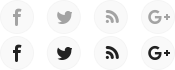
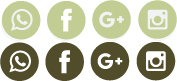
Tipografía, y ajustes varios

diff --git a/css/theme-styles.css b/css/theme-styles.css
@@ -51,6 +51,13 @@
   font-style: normal; 
 }  
 
+@font-face {
+  font-family: 'CretaBold';
+  src: url("../fonts/NexaBold/NexaBold.otf");
+  font-weight: normal;
+  font-style: normal; 
+}  
+
 
 body.custom_theme { overflow-x: hidden; }
 
@@ -147,7 +154,7 @@ ul.product_list.grid > li .product-container .content_price {
 
 
 ul.product_list.grid > li .product-container h5 a {
-	font-family: 'GothamProMedium';
+	font-family: 'CretaBold';
 	font-size: 26px;
 	color: #040406;
 	line-height: 36px;
@@ -246,7 +253,7 @@ body.custom_theme #header #social_block h4 {display: none;}
 
 body.custom_theme #header #social_block ul li a:before {
     content: "";
-    width: 34px; height: 34px;
+    width: 42px; height: 42px;
     display: inline-block;
     background-image: url(../img/head_socials.png);
     background-repeat: no-repeat;
@@ -256,10 +263,10 @@ body.custom_theme #header #social_block ul li {display: inline-block; margin-lef
 body.custom_theme #header #social_block ul li a span {display: none;}
 
 body.custom_theme #header #social_block ul li.facebook a:before {
-    background-position: 0px 0px;
+    background-position: -47px 0px;
 }
 body.custom_theme #header #social_block ul li.facebook a:hover:before {
-    background-position: 0px -36px;
+    background-position: -45px -41px;
 }
 body.custom_theme #header #social_block ul li.twitter a:before {
     background-position: -47px 0px;
@@ -278,6 +285,12 @@ body.custom_theme #header #social_block ul li.google-plus a:before {
 }
 body.custom_theme #header #social_block ul li.google-plus a:hover:before {
     background-position: -141px -36px;
+}
+body.custom_theme #header #social_block ul li.instagram a:before {
+    background-position: -138px 0px;
+}
+body.custom_theme #header #social_block ul li.instagram a:hover:before {
+    background-position: -135px -40px;
 }
 
 .news_letter_popup {
@@ -600,7 +613,7 @@ textarea:active:focus {outline: none !important;}
 	color: #fff;
 	padding: 10px 14px 10px 14px;
 	font-weight: normal;
-	background: #514C29;
+	background: #C2CD93;
 	border: none;
 	border-radius: 20px;
 	margin-bottom: 10px;
@@ -637,7 +650,7 @@ textarea:active:focus {outline: none !important;}
 	}
 }
 .button.button-medium:hover {
-	background: #C2CD93;
+	background: #514C29;
 	border: none;
 }
 
@@ -647,7 +660,7 @@ textarea:active:focus {outline: none !important;}
 	color: #fff;
 	padding: 10px 14px 10px 14px;
 	font-weight: normal;
-	background: #514C29;
+	background: #C2CD93;
 	border: none;
 	border-radius: 20px;
 }
